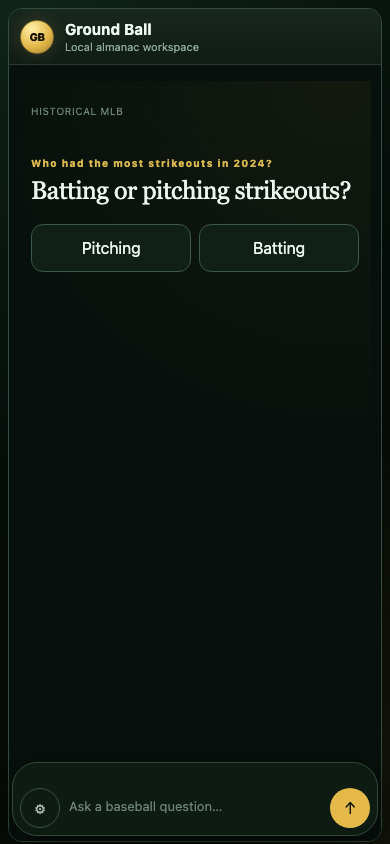
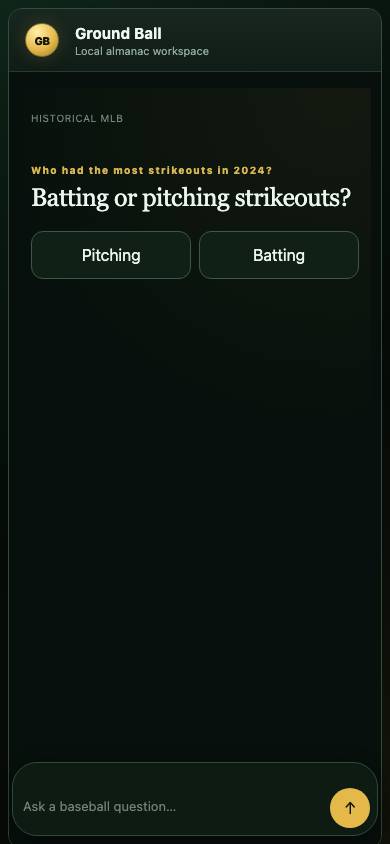
Move prototype settings to title bar

diff --git a/web/src/App.svelte b/web/src/App.svelte
@@ -1,5 +1,5 @@
 <script>
-  import { onMount } from 'svelte';
+  import { onMount, tick } from 'svelte';
 
   import { csvDataUrl, jsonDataUrl, tableRows } from './lib/downloads.js';
 
@@ -43,6 +43,9 @@
   let testsResult = null;
   let testsError = '';
   let PrototypeComponent = null;
+  let prototypeSettingsOpen =
+    prototypeMode && new URLSearchParams(window.location.search).get('menu') === '1';
+  let prototypeSettingsButton;
 
   $: table = tableRows(result?.rows);
   $: queryEnabled = capabilityEnabled(capabilities?.query);
@@ -92,6 +95,16 @@
       capabilityError = messageFrom(caught, 'Could not start Ground Ball.');
     }
   });
+
+  function togglePrototypeSettings() {
+    prototypeSettingsOpen = !prototypeSettingsOpen;
+  }
+
+  async function closePrototypeSettings() {
+    prototypeSettingsOpen = false;
+    await tick();
+    prototypeSettingsButton?.focus({ preventScroll: true });
+  }
 
   function readHistory() {
     try {
@@ -243,10 +256,22 @@
 </svelte:head>
 
 <main class="desktop-shell">
-  <section class="app-window" aria-label="Ground Ball application window">
+  <section class:prototype-window={prototypeMode} class="app-window" aria-label="Ground Ball application window">
     <header class="title-bar">
       <div class="app-identity">
-        <span class="ball-mark" aria-hidden="true">GB</span>
+        {#if prototypeMode}
+          <button
+            bind:this={prototypeSettingsButton}
+            class="prototype-settings-trigger"
+            type="button"
+            aria-label="Open application sections"
+            aria-expanded={prototypeSettingsOpen}
+            aria-controls="app-sections-menu"
+            on:click={togglePrototypeSettings}
+          ><span class="ball-mark" aria-hidden="true">GB</span></button>
+        {:else}
+          <span class="ball-mark" aria-hidden="true">GB</span>
+        {/if}
         <div>
           <h1>{capabilities?.name ?? 'Ground Ball'}</h1>
           <p>
@@ -301,7 +326,10 @@
         <div class:prototype-column={prototypeMode} class="main-column">
           {#if prototypeMode}
             {#if PrototypeComponent}
-              <PrototypeComponent />
+              <PrototypeComponent
+                settingsOpen={prototypeSettingsOpen}
+                onCloseSettings={closePrototypeSettings}
+              />
             {:else}
               <p class="empty-copy">Loading mobile prototype…</p>
             {/if}

diff --git a/web/src/prototypes/query-recipe/VariantF.svelte b/web/src/prototypes/query-recipe/VariantF.svelte
@@ -1,9 +1,6 @@
 <script>
-  import { tick } from 'svelte';
-
   import ChatComposer from './ChatComposer.svelte';
   import DetailsSheet from './DetailsSheet.svelte';
-  import SettingsMenu from './SettingsMenu.svelte';
   import { CLARIFICATION_QUESTION, EXAMPLE_QUESTION, RESULTS } from './fixtures.js';
 
   export let previewState = 'answer';
@@ -11,9 +8,6 @@
 
   let draft = previewState === 'start' ? EXAMPLE_QUESTION : '';
   let priorPreviewState = previewState;
-  let settingsOpen = new URLSearchParams(window.location.search).get('menu') === '1';
-  let selectedSection = 'Query';
-  let composer;
   $: if (previewState !== priorPreviewState) {
     draft = previewState === 'start' ? EXAMPLE_QUESTION : '';
     priorPreviewState = previewState;
@@ -22,22 +16,6 @@
   function submit() {
     setPreviewState('answer');
     draft = '';
-    settingsOpen = false;
-  }
-
-  function toggleSettings() {
-    settingsOpen = !settingsOpen;
-  }
-
-  async function closeSettings() {
-    settingsOpen = false;
-    await tick();
-    composer?.focusSettings();
-  }
-
-  function chooseSection(section) {
-    selectedSection = section;
-    closeSettings();
   }
 </script>
 
@@ -64,19 +42,8 @@
     </section>
   {/if}
 
-  {#if settingsOpen}
-    <button class="settings-popover-backdrop" type="button" tabindex="-1" aria-label="Close sections and settings" on:click={closeSettings}></button>
-    <SettingsMenu selected={selectedSection} onSelect={chooseSection} onClose={closeSettings} />
-  {/if}
   <div class="chat-dock">
-    <ChatComposer
-      bind:this={composer}
-      bind:value={draft}
-      onSubmit={submit}
-      showSettings={true}
-      {settingsOpen}
-      onToggleSettings={toggleSettings}
-    />
+    <ChatComposer bind:value={draft} onSubmit={submit} />
   </div>
   {#if previewState === 'details'}<DetailsSheet onClose={() => setPreviewState('answer')} />{/if}
 </article>

diff --git a/web/src/prototypes/query-recipe/MobileQueryRecipePrototype.svelte b/web/src/prototypes/query-recipe/MobileQueryRecipePrototype.svelte
@@ -3,7 +3,11 @@
   import VariantE from './VariantE.svelte';
   import VariantF from './VariantF.svelte';
   import PrototypeSwitcher from './PrototypeSwitcher.svelte';
+  import SettingsMenu from './SettingsMenu.svelte';
   import './chat-prototype.css';
+
+  export let settingsOpen = false;
+  export let onCloseSettings = () => {};
 
   // Three answer-first chat variants, switchable via ?variant=, on the existing app route.
   const variants = [
@@ -21,6 +25,7 @@
   const presentationMode = new URLSearchParams(window.location.search).get('presentation') === '1';
   let variant = readChoice('variant', variants.map((item) => item.key), 'D');
   let previewState = readChoice('state', states.map((item) => item.key), 'answer');
+  let selectedSection = 'Query';
 
   function readChoice(key, allowed, fallback) {
     const value = new URLSearchParams(window.location.search).get(key);
@@ -49,6 +54,11 @@
     setVariant(variants[nextIndex].key);
   }
 
+  function chooseSection(section) {
+    selectedSection = section;
+    onCloseSettings();
+  }
+
   function handleKeydown(event) {
     const tag = event.target?.tagName?.toLowerCase();
     if (tag === 'input' || tag === 'textarea' || event.target?.isContentEditable) return;
@@ -60,6 +70,17 @@
 <svelte:window on:keydown={handleKeydown} />
 
 <section class="prototype-host" aria-label="Answer-first mobile chat prototype">
+  {#if settingsOpen}
+    <button
+      class="settings-popover-backdrop"
+      type="button"
+      tabindex="-1"
+      aria-label="Close application sections"
+      on:click={onCloseSettings}
+    ></button>
+    <SettingsMenu selected={selectedSection} onSelect={chooseSection} onClose={onCloseSettings} />
+  {/if}
+
   {#if !presentationMode}
     <aside class="prototype-evaluator" aria-label="Prototype preview state">
       <span>Prototype state</span>

diff --git a/web/src/prototypes/query-recipe/chat-prototype.css b/web/src/prototypes/query-recipe/chat-prototype.css
@@ -10,6 +10,30 @@
   display: block;
 }
 
+.prototype-window {
+  position: relative;
+}
+
+.prototype-settings-trigger {
+  position: relative;
+  z-index: 24;
+  width: 44px;
+  height: 44px;
+  display: grid;
+  place-items: center;
+  flex: 0 0 44px;
+  padding: 0;
+  border: 0;
+  border-radius: 50%;
+  background: transparent;
+  cursor: pointer;
+}
+
+.prototype-settings-trigger[aria-expanded="true"] .ball-mark {
+  border-color: #f0cf67;
+  box-shadow: 0 0 0 3px rgba(228, 185, 74, .16), 0 0 20px rgba(228, 185, 74, .3);
+}
+
 .prototype-host {
   width: 100%;
   min-width: 0;
@@ -491,10 +515,6 @@
   gap: 6px;
 }
 
-.chat-composer.with-settings {
-  grid-template-columns: 40px minmax(0, 1fr) 40px;
-}
-
 .chat-composer textarea {
   width: 100%;
   min-height: 40px;
@@ -539,26 +559,13 @@
   font-weight: 900;
 }
 
-.composer-settings {
-  border: 1px solid #3a5143;
-  color: #a9b8ae;
-  background: transparent;
-  font-size: 17px;
-}
-
-.composer-settings[aria-expanded="true"] {
-  border-color: #e4b94a;
-  color: #f3d878;
-  background: #342c14;
-}
-
 .settings-popover {
-  position: fixed;
-  left: max(calc(50% - 350px), calc(12px + env(safe-area-inset-left)));
-  bottom: calc(max(8px, env(safe-area-inset-bottom)) + 72px);
+  position: absolute;
+  left: max(12px, env(safe-area-inset-left));
+  top: calc(68px + env(safe-area-inset-top));
   z-index: 23;
   width: min(270px, calc(100vw - 24px - env(safe-area-inset-left) - env(safe-area-inset-right)));
-  max-height: min(390px, calc(100dvh - 110px - env(safe-area-inset-top) - env(safe-area-inset-bottom)));
+  max-height: min(390px, calc(100dvh - 86px - env(safe-area-inset-top) - env(safe-area-inset-bottom)));
   overflow-y: auto;
   display: grid;
   gap: 5px;

diff --git a/web/src/prototypes/query-recipe/ChatComposer.svelte b/web/src/prototypes/query-recipe/ChatComposer.svelte
@@ -2,15 +2,6 @@
   export let value = '';
   export let placeholder = 'Ask a baseball question…';
   export let onSubmit = () => {};
-  export let showSettings = false;
-  export let settingsOpen = false;
-  export let onToggleSettings = () => {};
-
-  let settingsButton;
-
-  export function focusSettings() {
-    settingsButton?.focus({ preventScroll: true });
-  }
 
   function submit() {
     const question = value.trim();
@@ -25,18 +16,7 @@
   }
 </script>
 
-<form class:with-settings={showSettings} class="chat-composer" on:submit|preventDefault={submit}>
-  {#if showSettings}
-    <button
-      bind:this={settingsButton}
-      class="composer-settings"
-      type="button"
-      aria-label="Open sections and settings"
-      aria-expanded={settingsOpen}
-      aria-controls="app-sections-menu"
-      on:click={onToggleSettings}
-    >⚙</button>
-  {/if}
+<form class="chat-composer" on:submit|preventDefault={submit}>
   <textarea bind:value rows="1" aria-label="Ask Ground Ball" {placeholder} on:keydown={handleKeydown}></textarea>
   <button class="composer-send" type="submit" aria-label="Send question">↑</button>
 </form>

diff --git a/web/prototype-screenshots/README.md b/web/prototype-screenshots/README.md
@@ -7,4 +7,4 @@ Generated from the throwaway `prototype/mobile-query-recipe` branch with Chrome 
 - `E`: search-style answer page controlled by the bottom chat composer.
 - `F`: compact sports-feed answer.
 
-The `D`–`F` captures cover start, answer, clarification, and hidden-details states. `F-settings.png` captures the selected direction's expandable bottom navigation. Presentation captures omit the prototype-only evaluator and variant switcher.
+The `D`–`F` captures cover start, answer, clarification, and hidden-details states. `F-settings.png` captures the selected direction's expandable navigation beneath the yellow title-bar button. Presentation captures omit the prototype-only evaluator and variant switcher.
